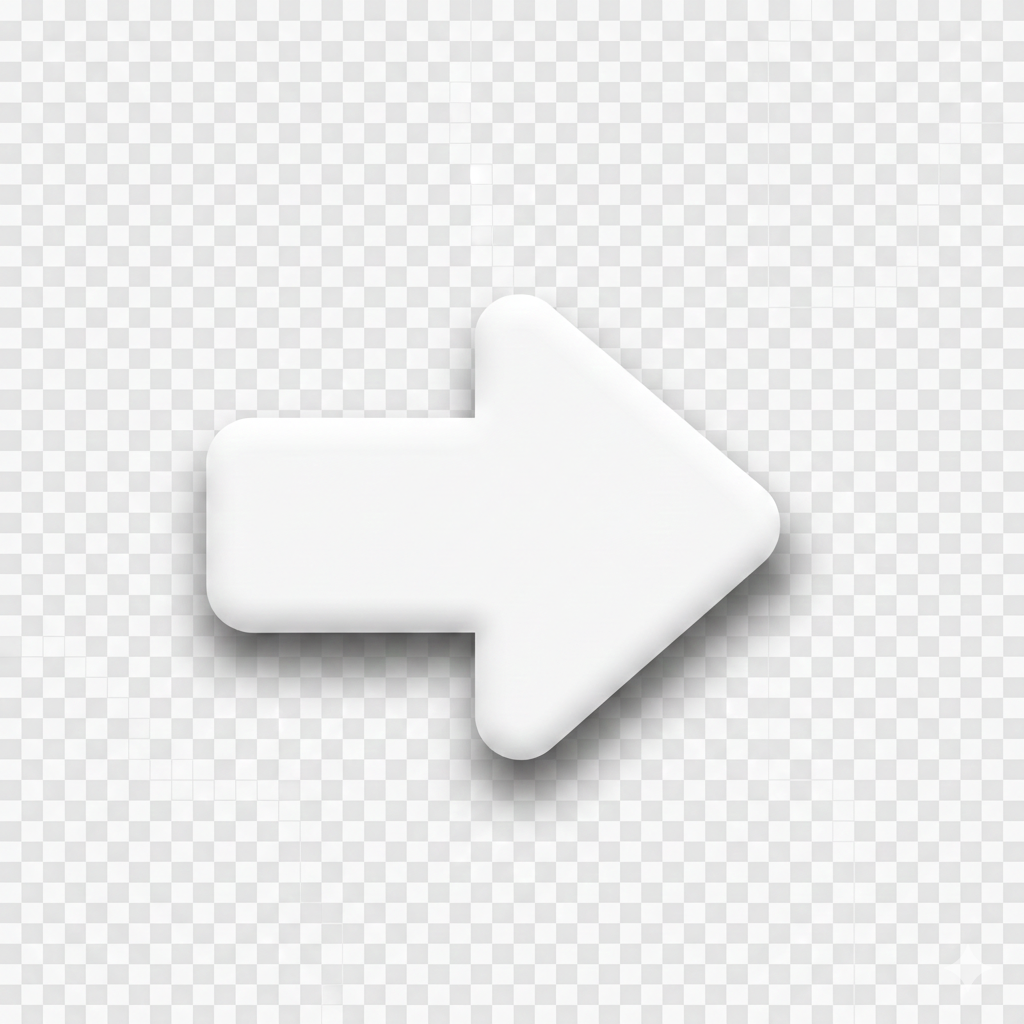
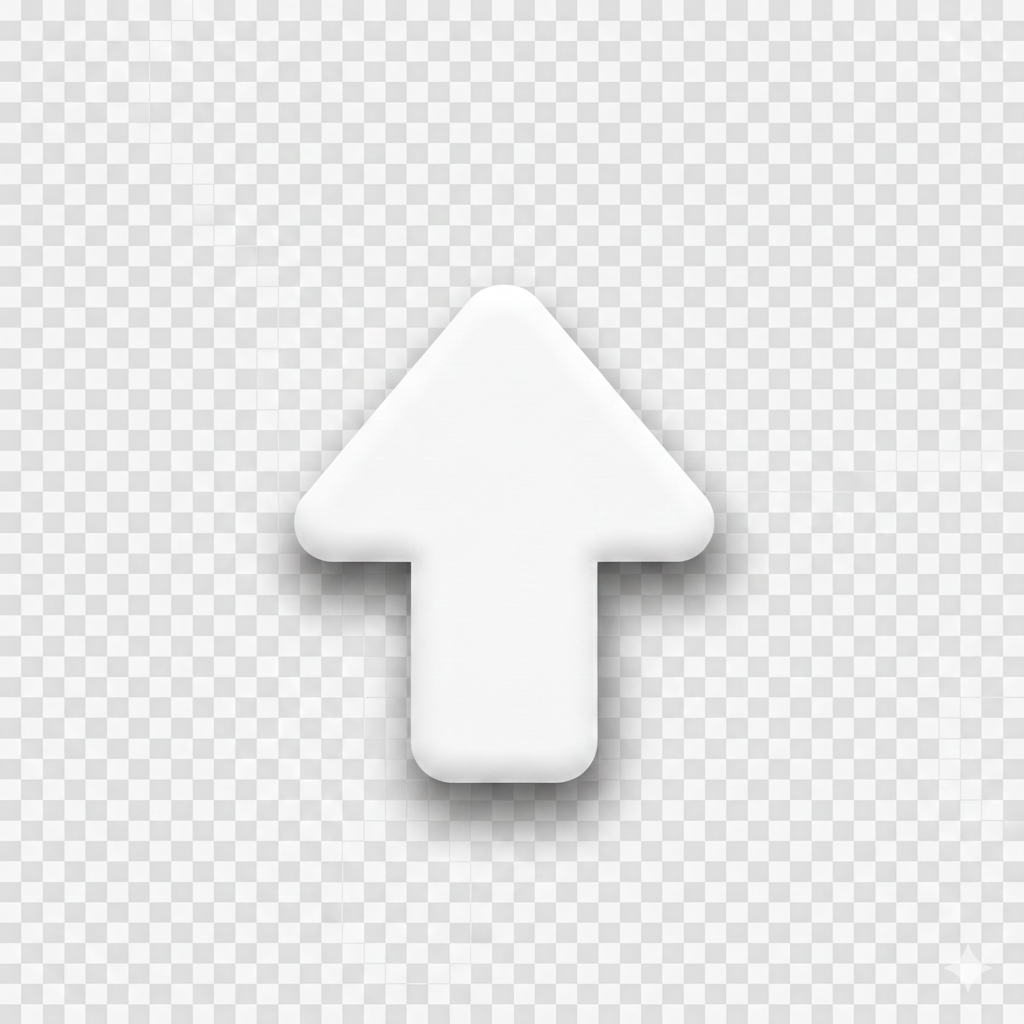
submit-comment

Changed region(s): [[0.0, 0.0, 1.0, 1.0], [0.75, 0.0, 1.0, 0.3125]]

diff --git a/CMPS350_Project/post.html b/CMPS350_Project/post.html
@@ -18,16 +18,22 @@
         </section>
 
         <section id="display-comment">
-            <h4>Comments</h4>
+            <h5>Comments</h5>
 
+            <div id="comments-container">
+
+
+            </div>
 
         </section>
 
         <section id="submit-comment">
-            <input type="text" id="comment" name="comment" placeholder="comment ...">
-            <button type="submit">
-                
-            </button>
+            <form id="comment-here">
+                <input type="text" id="comment" name="comment" placeholder="comment here ..." style="border-radius: 3rem; border: none;">
+                    <button type="submit" style="border-radius: 3rem; width: 2rem; background:none; border:none; cursor:pointer;">
+                        <img src="/images/submit-comment.png" alt="submit" width="20rem">
+                    </button>
+            </form>
         </section>
     </main>
     <footer>
